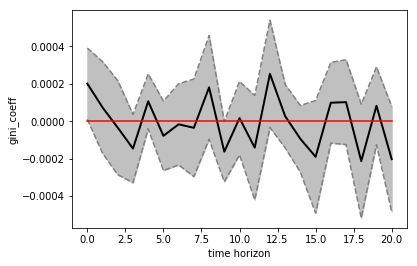
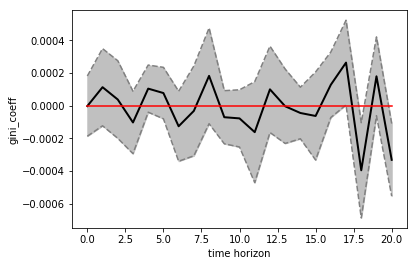
Seasonally adjusted

diff --git a/analysis/7_LP_estimation_agg_CPI.py b/analysis/7_LP_estimation_agg_CPI.py
@@ -4,6 +4,7 @@ import pandas as pd
 import numpy as np
 import statsmodels.api as sm
 import matplotlib.pyplot as plt
+from statsmodels.tsa.seasonal import seasonal_decompose
 
 
 data = pd.read_pickle("../out_data_mngment/data_for_final_analysis_agg_cpi/data_inequality")
@@ -16,47 +17,44 @@ for c in data.columns[2:5]:
     plt.xticks(data["mm/yyyy"][::8], rotation=70)
     plt.savefig("../out_figures/CPIU_agg_app/time_series_of" + c + "_with_agg_CPI-U", bbox_inches="tight")
     plt.clf()
+#-------------------------
+# reset index to dat_time
+#------------------------
+data['Date'] = pd.to_datetime(data['mm/yyyy'])
+data = data.set_index('Date')
 
-stdev = data.loc[:157]["sd"]
+#---------------------------------------------------
+# Construct series for estimation. Adjust seasonally
+#---------------------------------------------------
+stdev = data.iloc[:158]["sd"]
 stdev.name = "stdev"
-plt.plot(data.loc[:157]["mm/yyyy"], stdev)
-plt.ylabel("st. dev")
-plt.xticks(data.loc[:157]["mm/yyyy"][::8], rotation=70)
-plt.savefig("../out_figures/CPIU_agg_app/real_ineq_stdev", bbox_inches="tight")
-plt.clf()
+stdev = stdev - seasonal_decompose(stdev, model='additive').seasonal
 
 
-gini_coeff = data.loc[:157]["Gini"]
+gini_coeff = data.iloc[:158]["Gini"]
 gini_coeff.name = "gini_coeff"
-plt.plot(data.loc[:157]["mm/yyyy"], gini_coeff)
-plt.ylabel("Gini")
-plt.xticks(data.loc[:157]["mm/yyyy"][::8], rotation=70)
-plt.savefig("../out_figures/CPIU_agg_app/real_ineq_Gini", bbox_inches="tight")
-plt.clf()
+gini_coeff = gini_coeff - seasonal_decompose(gini_coeff, model='additive').seasonal
 
 
-p90_p10 = data.loc[:157]["90-10"]
+p90_p10 = data.iloc[:158]["90-10"]
 p90_p10.name = "p90_p10"
-plt.plot(data.loc[:157]["mm/yyyy"], p90_p10)
-plt.ylabel("p90-p10")
-plt.xticks(data.loc[:157]["mm/yyyy"][::8], rotation=70)
-plt.savefig("../out_figures/CPIU_agg_app/real_ineq_p90-p10", bbox_inches="tight")
-plt.clf()
+p90_p10 = p90_p10 - seasonal_decompose(p90_p10, model='additive').seasonal
 
 
-exp_10 = pd.read_pickle("../out_data_mngment/data_for_final_analysis_agg_cpi/log_exp_series_p10")
+
+exp_10 = pd.read_pickle("../out_data_mngment/data_for_final_analysis/log_exp_series_p10")
 exp_10 = exp_10.sort_values(by=["year", "month"])
-exp_10 = exp_10["exp_p1-p10_het"]
-exp_10.index = range(len(exp_10))
-exp_10 = exp_10[:158]
+exp_10 = exp_10.iloc[:158]["exp_p1-p10_het"]
+exp_10.index = data.index[:158]
+exp_10 = exp_10 - seasonal_decompose(exp_10, model='additive').seasonal
 
 
-exp_90 = pd.read_pickle("../out_data_mngment/data_for_final_analysis_agg_cpi/log_exp_series_p90")
+
+exp_90 = pd.read_pickle("../out_data_mngment/data_for_final_analysis/log_exp_series_p90")
 exp_90 = exp_90.sort_values(by=["year", "month"])
-exp_90 = exp_90["exp_p90-p100_het"]
-exp_90.index = range(len(exp_90))
-exp_90 = exp_90[:158]
-
+exp_90 = exp_90.iloc[:158]["exp_p90-p100_het"]
+exp_90.index = data.index[:158]
+exp_90 = exp_90 - seasonal_decompose(exp_90, model='additive').seasonal
 
 shock_series = (
     pd.read_excel(
@@ -64,11 +62,13 @@ shock_series = (
     )
     * 100
 )
+    
+shock_series.index=data.index[:158]
+
+shock_series = shock_series - seasonal_decompose(shock_series, model='additive').seasonal
 
 
-# shock_series = pd.concat(
-#    [data.loc[0:157]["year"], data.loc[0:157]["month"], shock_series], axis=1
-# )
+
 
 # create data frame of regressors (don't changes with horizon h) for each ineq. measure
 
@@ -76,6 +76,7 @@ X = {}
 for k in [stdev, gini_coeff, p90_p10, exp_10, exp_90]:
     X[k.name] = pd.DataFrame()
     X[k.name]["const"] = np.ones(len(shock_series))
+    X[k.name].index = k.index
     for i in range(20):
         X[k.name]["rr_L" + str(i)] = shock_series["Shock_values"].shift(i)
     for j in range(1, 7):

diff --git a/analysis/7_LP_estimation.py b/analysis/7_LP_estimation.py
@@ -4,6 +4,7 @@ import pandas as pd
 import numpy as np
 import statsmodels.api as sm
 import matplotlib.pyplot as plt
+from statsmodels.tsa.seasonal import seasonal_decompose
 
 
 data = pd.read_pickle("../out_data_mngment/data_for_final_analysis/data_inequality")
@@ -29,46 +30,44 @@ for c in data.columns[2:5]:
     plt.savefig("../out_figures/new_agg_app/combined_time_series_of" + c, bbox_inches="tight")
     plt.clf()
 
-stdev = data.loc[:157]["sd"]
+#-------------------------
+# reset index to dat_time
+#------------------------
+data['Date'] = pd.to_datetime(data['mm/yyyy'])
+data = data.set_index('Date')
+
+#---------------------------------------------------
+# Construct series for estimation. Adjust seasonally
+#---------------------------------------------------
+stdev = data.iloc[:158]["sd"]
 stdev.name = "stdev"
-plt.plot(data.loc[:157]["mm/yyyy"], stdev)
-plt.ylabel("st. dev")
-plt.xticks(data.loc[:157]["mm/yyyy"][::8], rotation=70)
-plt.savefig("../out_figures/new_agg_app/real_ineq_stdev", bbox_inches="tight")
-plt.clf()
+stdev = stdev - seasonal_decompose(stdev, model='additive').seasonal
 
 
-gini_coeff = data.loc[:157]["Gini"]
+gini_coeff = data.iloc[:158]["Gini"]
 gini_coeff.name = "gini_coeff"
-plt.plot(data.loc[:157]["mm/yyyy"], gini_coeff)
-plt.ylabel("Gini")
-plt.xticks(data.loc[:157]["mm/yyyy"][::8], rotation=70)
-plt.savefig("../out_figures/new_agg_app/real_ineq_Gini", bbox_inches="tight")
-plt.clf()
+gini_coeff = gini_coeff - seasonal_decompose(gini_coeff, model='additive').seasonal
 
 
-p90_p10 = data.loc[:157]["90-10"]
+p90_p10 = data.iloc[:158]["90-10"]
 p90_p10.name = "p90_p10"
-plt.plot(data.loc[:157]["mm/yyyy"], p90_p10)
-plt.ylabel("p90-p10")
-plt.xticks(data.loc[:157]["mm/yyyy"][::8], rotation=70)
-plt.savefig("../out_figures/new_agg_app/real_ineq_p90-p10", bbox_inches="tight")
-plt.clf()
+p90_p10 = p90_p10- seasonal_decompose(p90_p10, model='additive').seasonal
+
 
 
 exp_10 = pd.read_pickle("../out_data_mngment/data_for_final_analysis/log_exp_series_p10")
 exp_10 = exp_10.sort_values(by=["year", "month"])
-exp_10 = exp_10["exp_p1-p10_het"]
-exp_10.index = range(len(exp_10))
-exp_10 = exp_10[:158]
+exp_10 = exp_10.iloc[:158]["exp_p1-p10_het"]
+exp_10.index = data.index[:158]
+exp_10 = exp_10 - seasonal_decompose(exp_10, model='additive').seasonal
+
 
 
 exp_90 = pd.read_pickle("../out_data_mngment/data_for_final_analysis/log_exp_series_p90")
 exp_90 = exp_90.sort_values(by=["year", "month"])
-exp_90 = exp_90["exp_p90-p100_het"]
-exp_90.index = range(len(exp_90))
-exp_90 = exp_90[:158]
-
+exp_90 = exp_90.iloc[:158]["exp_p90-p100_het"]
+exp_90.index = data.index[:158]
+exp_90 = exp_90 - seasonal_decompose(exp_90, model='additive').seasonal
 
 shock_series = (
     pd.read_excel(
@@ -76,11 +75,13 @@ shock_series = (
     )
     * 100
 )
+    
+shock_series.index=data.index[:158]
+
+shock_series = shock_series - seasonal_decompose(shock_series, model='additive').seasonal
 
 
-# shock_series = pd.concat(
-#    [data.loc[0:157]["year"], data.loc[0:157]["month"], shock_series], axis=1
-# )
+
 
 # create data frame of regressors (don't changes with horizon h) for each ineq. measure
 
@@ -88,6 +89,7 @@ X = {}
 for k in [stdev, gini_coeff, p90_p10, exp_10, exp_90]:
     X[k.name] = pd.DataFrame()
     X[k.name]["const"] = np.ones(len(shock_series))
+    X[k.name].index = k.index
     for i in range(20):
         X[k.name]["rr_L" + str(i)] = shock_series["Shock_values"].shift(i)
     for j in range(1, 7):
